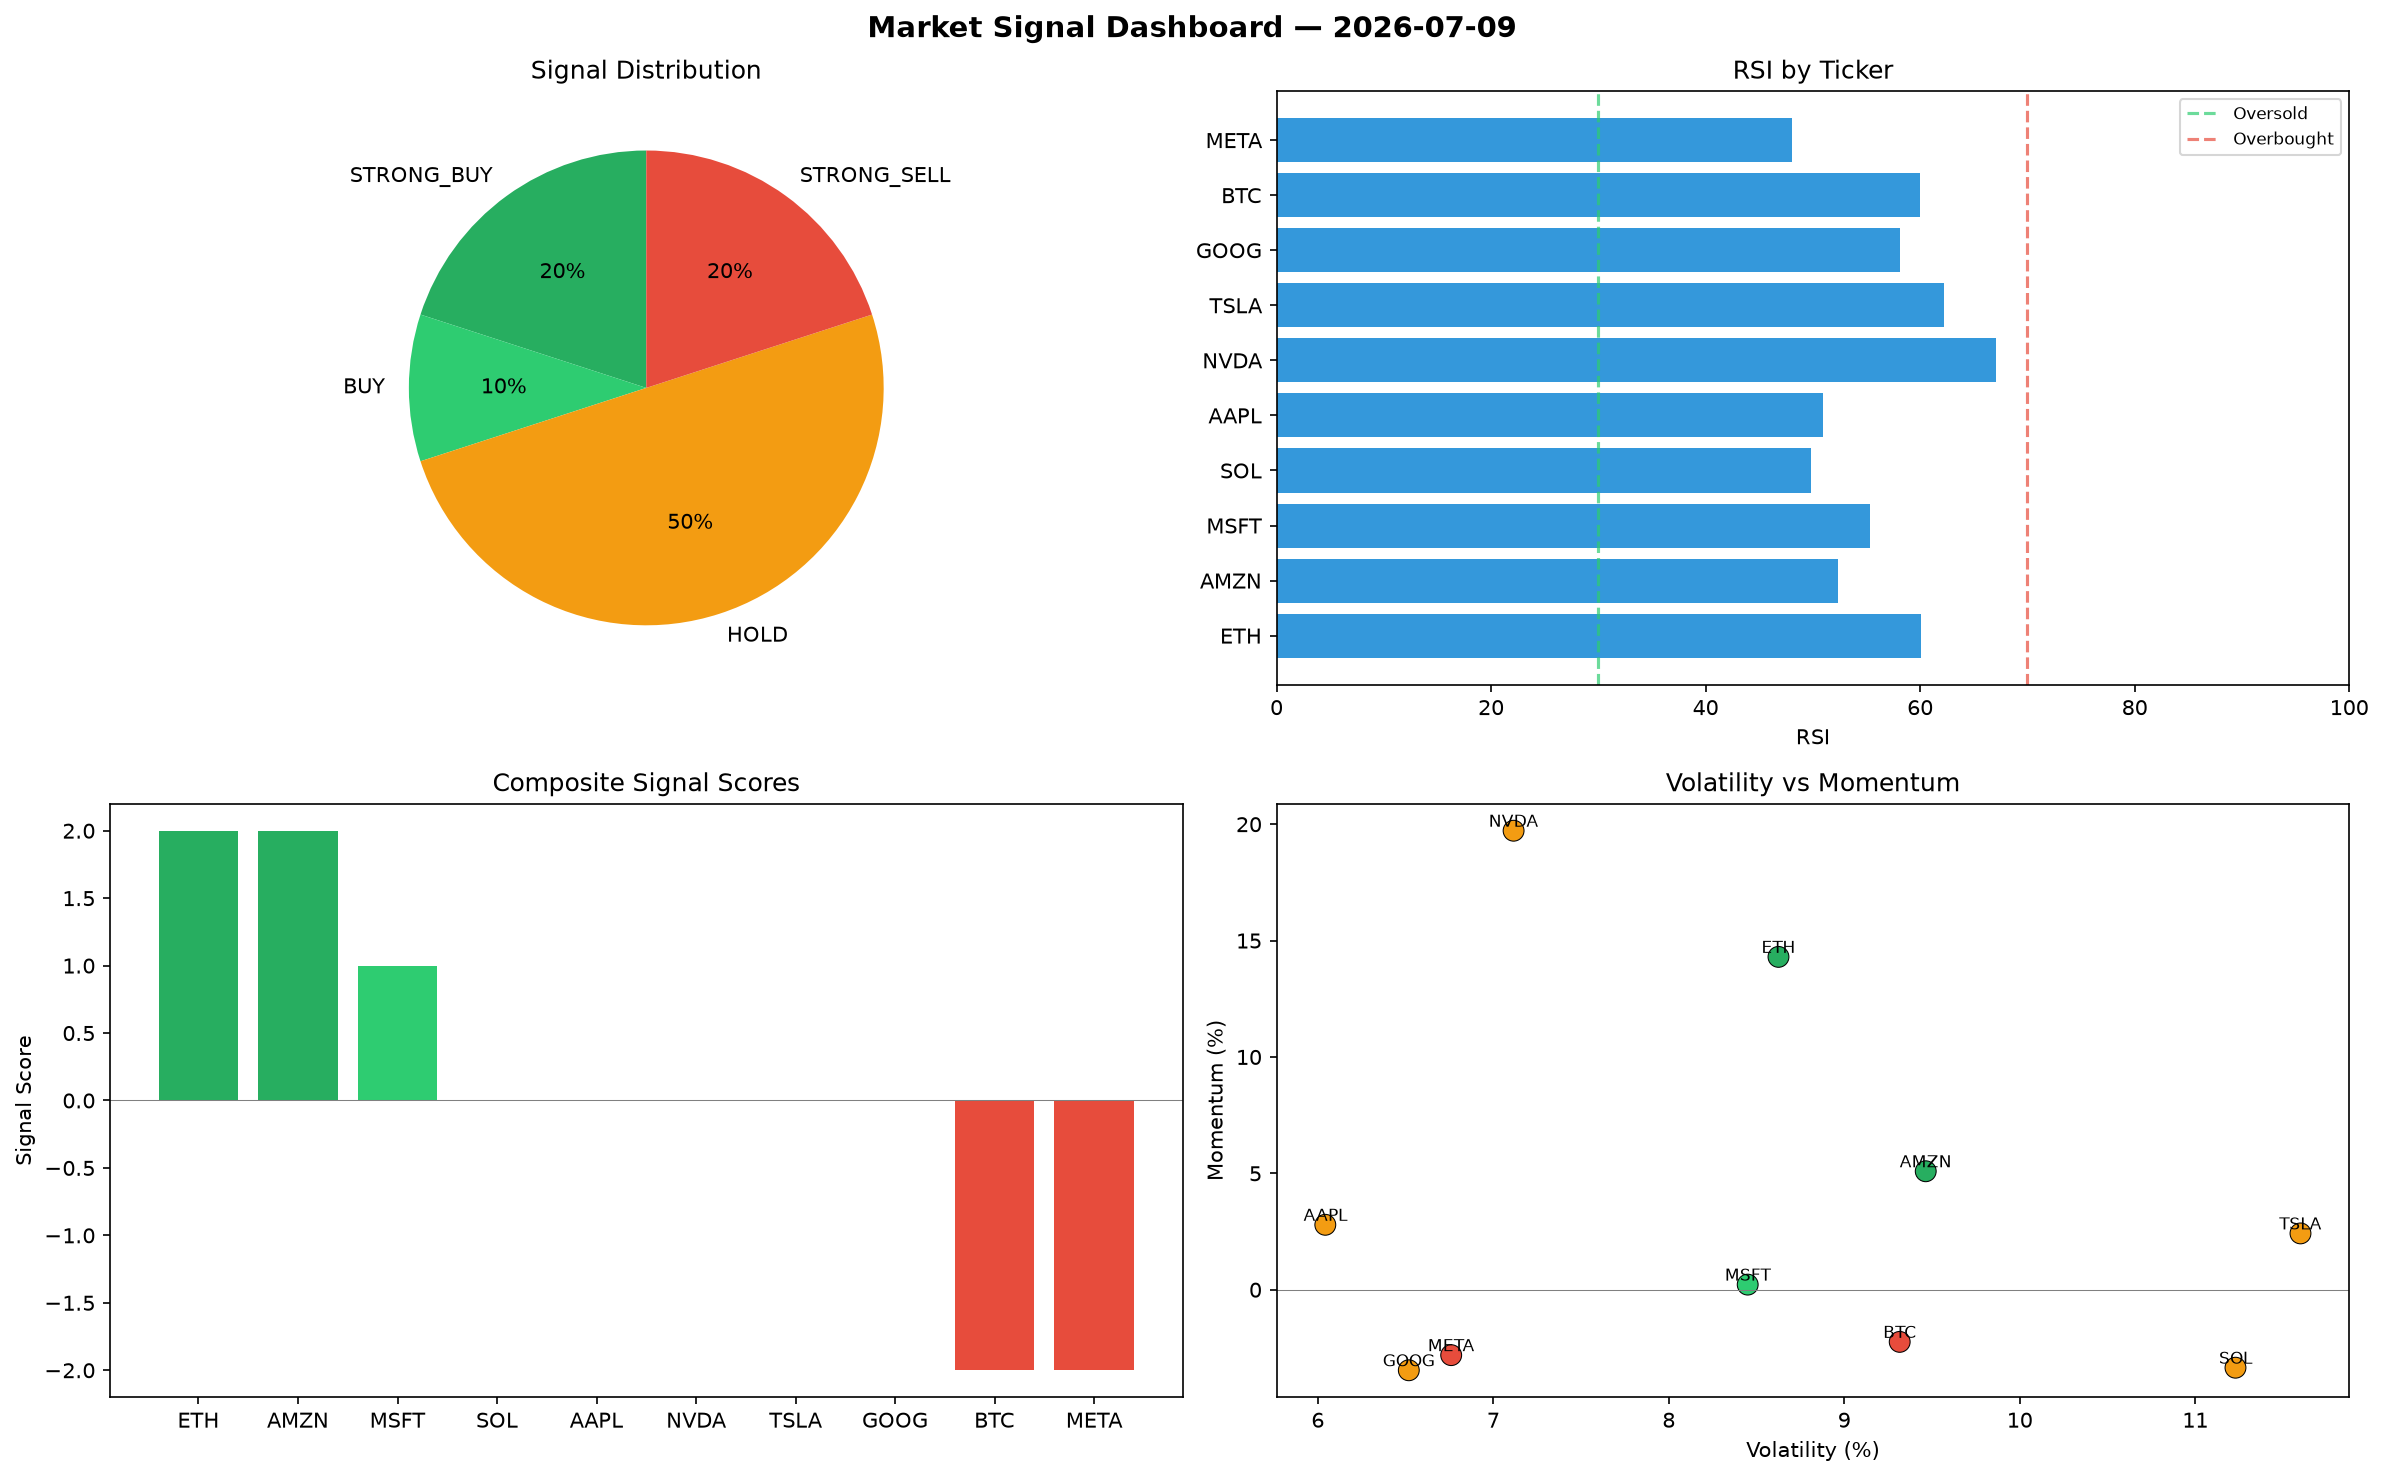
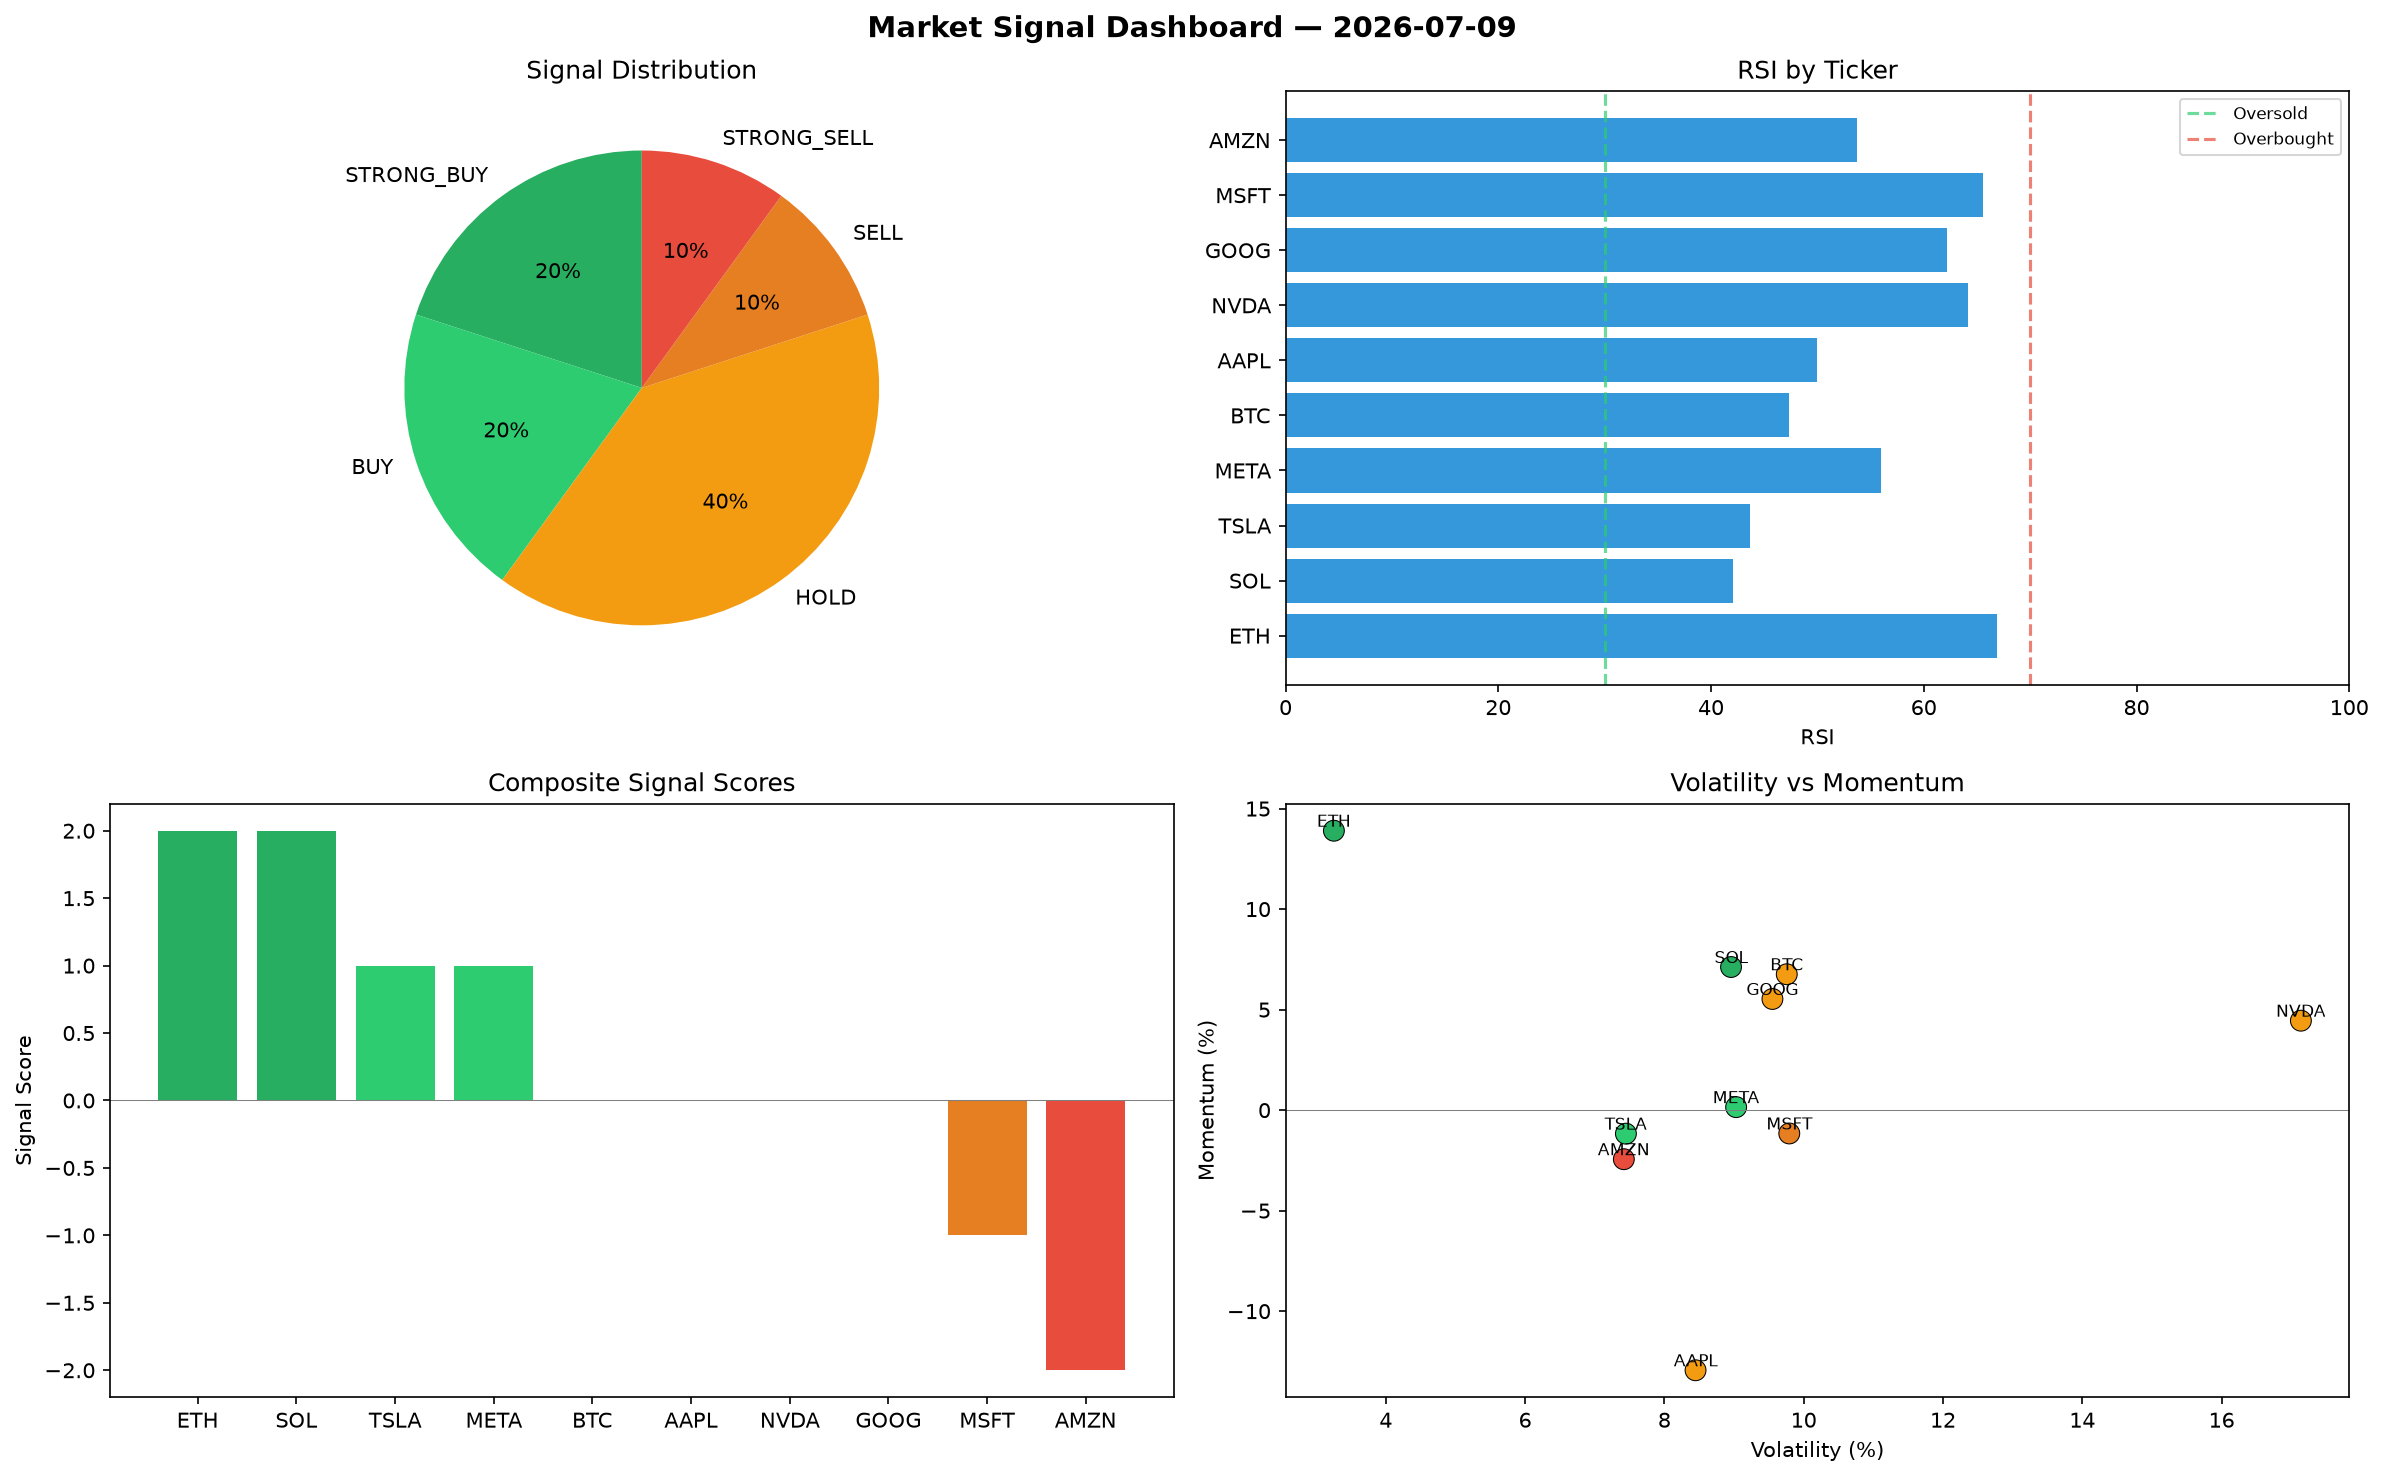
automated-bots: market signals 2026-07-09T17:01

diff --git a/logs/2026-07-09.md b/logs/2026-07-09.md
@@ -1,6 +1,6 @@
 # Market Signal Report — 2026-07-09
 
-**Run ID:** `ffe075ddbc` | **Buy:** 3 | **Sell:** 2 | **Hold:** 5
+**Run ID:** `e6f05e455f` | **Buy:** 4 | **Sell:** 2 | **Hold:** 4
 
 ![Dashboard](2026-07-09_dashboard.png)
 
@@ -8,28 +8,28 @@
 
 | Ticker | Price | Signal | Score | RSI | Momentum | Confidence |
 |--------|-------|--------|-------|-----|----------|------------|
-| ETH | $808.55 | **STRONG_BUY** | 2 | 60.06 | 0.143 | 0.5 |
-| AMZN | $272.21 | **STRONG_BUY** | 2 | 52.32 | 0.0509 | 0.5 |
-| MSFT | $3624.37 | **BUY** | 1 | 55.34 | 0.0022 | 0.25 |
-| SOL | $2281.66 | **HOLD** | 0 | 49.82 | -0.0335 | 0.0 |
-| AAPL | $1752.92 | **HOLD** | 0 | 50.94 | 0.0279 | 0.0 |
-| NVDA | $413.83 | **HOLD** | 0 | 67.08 | 0.1972 | 0.0 |
-| TSLA | $861.3 | **HOLD** | 0 | 62.22 | 0.0242 | 0.0 |
-| GOOG | $2470.43 | **HOLD** | 0 | 58.11 | -0.0346 | 0.0 |
-| BTC | $4922.55 | **STRONG_SELL** | -2 | 59.96 | -0.0224 | 0.5 |
-| META | $1605.65 | **STRONG_SELL** | -2 | 48.09 | -0.0281 | 0.5 |
+| ETH | $1221.51 | **STRONG_BUY** | 2 | 66.87 | 0.139 | 0.5 |
+| SOL | $2817.3 | **STRONG_BUY** | 2 | 42.04 | 0.0712 | 0.5 |
+| TSLA | $854.4 | **BUY** | 1 | 43.71 | -0.0117 | 0.25 |
+| META | $2325.49 | **BUY** | 1 | 55.98 | 0.0015 | 0.25 |
+| BTC | $1726.33 | **HOLD** | 0 | 47.34 | 0.0676 | 0.0 |
+| AAPL | $1033.63 | **HOLD** | 0 | 49.98 | -0.1294 | 0.0 |
+| NVDA | $1311.79 | **HOLD** | 0 | 64.2 | 0.0445 | 0.0 |
+| GOOG | $943.14 | **HOLD** | 0 | 62.17 | 0.0553 | 0.0 |
+| MSFT | $1440.92 | **SELL** | -1 | 65.54 | -0.0116 | 0.25 |
+| AMZN | $4918.7 | **STRONG_SELL** | -2 | 53.69 | -0.0244 | 0.5 |
 
 ## Delta vs Yesterday
 
 | Ticker | Today | Yesterday | Price Change | Signal Changed |
 |--------|-------|-----------|-------------|----------------|
-| ETH | STRONG_BUY | STRONG_SELL | 📉 -38.95% | ⚠ YES |
-| AMZN | STRONG_BUY | STRONG_BUY | 📉 -93.84% | — |
-| MSFT | BUY | HOLD | 📉 -26.41% | ⚠ YES |
-| SOL | HOLD | STRONG_BUY | 📉 -46.67% | ⚠ YES |
-| AAPL | HOLD | STRONG_SELL | 📉 -13.21% | ⚠ YES |
-| NVDA | HOLD | HOLD | 📉 -90.23% | — |
-| TSLA | HOLD | STRONG_BUY | 📉 -54.41% | ⚠ YES |
-| GOOG | HOLD | HOLD | 📈 350.78% | — |
-| BTC | STRONG_SELL | HOLD | 📈 73.16% | ⚠ YES |
-| META | STRONG_SELL | SELL | 📉 -33.3% | ⚠ YES |
+| ETH | STRONG_BUY | STRONG_SELL | 📉 -7.77% | ⚠ YES |
+| SOL | STRONG_BUY | STRONG_BUY | 📉 -34.15% | — |
+| TSLA | BUY | STRONG_BUY | 📉 -54.77% | ⚠ YES |
+| META | BUY | SELL | 📉 -3.4% | ⚠ YES |
+| BTC | HOLD | HOLD | 📉 -39.27% | — |
+| AAPL | HOLD | STRONG_SELL | 📉 -48.83% | ⚠ YES |
+| NVDA | HOLD | HOLD | 📉 -69.02% | — |
+| GOOG | HOLD | HOLD | 📈 72.1% | — |
+| MSFT | SELL | HOLD | 📉 -70.74% | ⚠ YES |
+| AMZN | STRONG_SELL | STRONG_BUY | 📈 11.3% | ⚠ YES |
